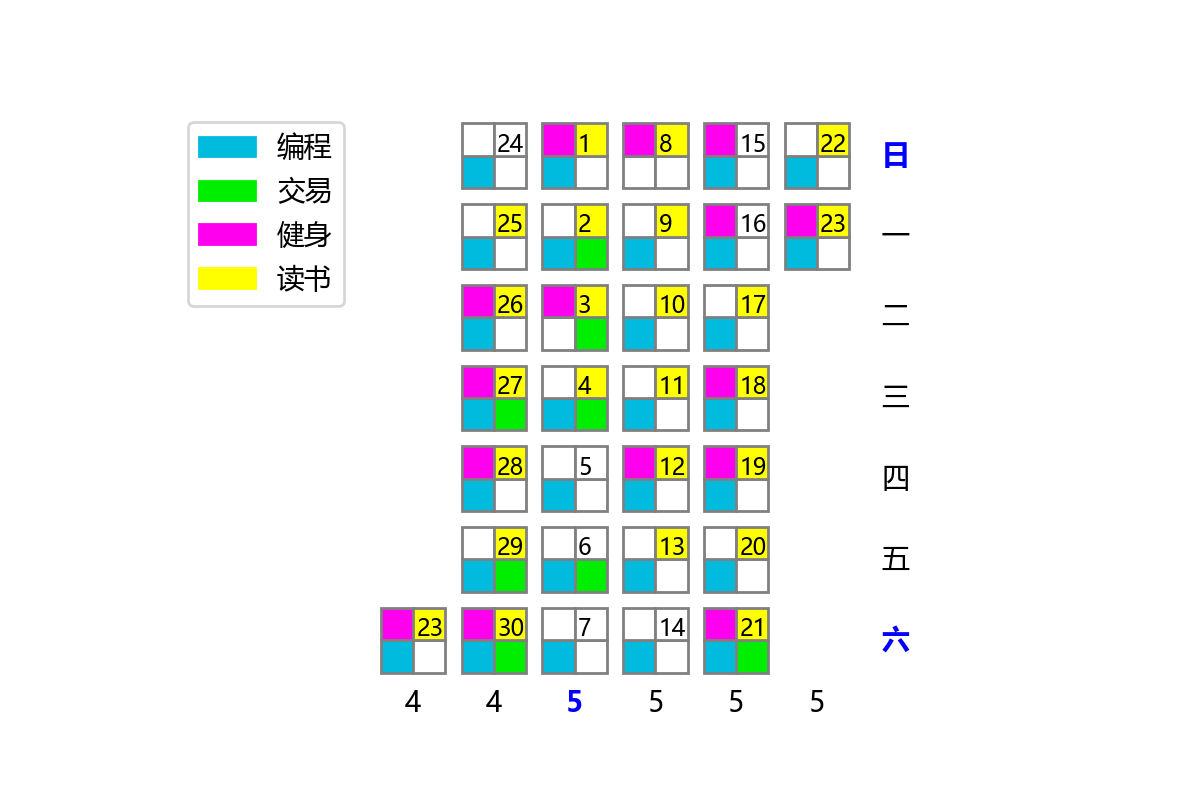
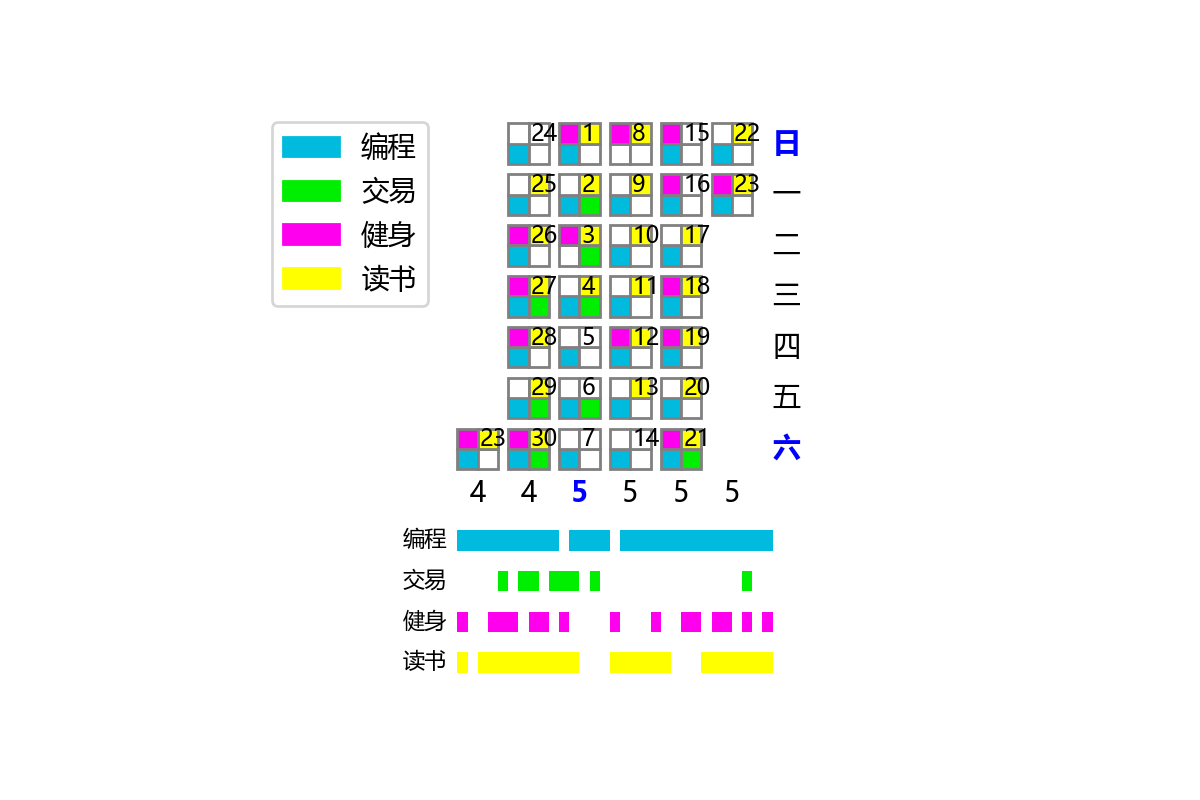
+ Add bar charts; > To fix fontsize issue

diff --git a/data_vis.py b/data_vis.py
@@ -46,7 +46,7 @@ class CalendarPlotter:
         self.rect_x_len = 1
         self.rect_y_len = self.rect_x_len / self.aspect
         self.rect_y_gap = 2.5
-        self.ax_bottom = self.rect_y_len * (-self.rect_y_gap) * 6
+        self.calendar_bottom = self.rect_y_len * (-self.rect_y_gap) * 6
         for ida, row in self.df.iterrows():
             rect_x, rect_y = self.plot_daily_rects(ida, row)
             self.plot_day_month_texts(
@@ -54,6 +54,7 @@ class CalendarPlotter:
             )
         self.plot_week_texts()
         self.plot_legends()
+        self.plot_bars()
 
         self.ax.plot()
         # plt.show()
@@ -75,7 +76,7 @@ class CalendarPlotter:
                 edgecolor="gray",
             )
             self.ax.add_patch(rect)
-        self.ax_right = rect_x + self.rect_x_len * 2
+        self.calendar_right = rect_x + self.rect_x_len * 2
         return rect_x, rect_y
 
     def plot_day_month_texts(self, date, rect_x, rect_y, is_last_day=False):
@@ -89,7 +90,7 @@ class CalendarPlotter:
         if date.isoweekday() == 6 or is_last_day:
             month_text_x = rect_x
             # month_text_y = rect_y - self.rect_y_len * 1.5
-            month_text_y = self.ax_bottom - self.rect_y_len * 0.5
+            month_text_y = self.calendar_bottom - self.rect_y_len * 0.5
             month_text_str = f"{date.month}"
             # month_text_str = date.strftime("%b")
             one_week_delta = datetime.timedelta(days=7)
@@ -111,7 +112,7 @@ class CalendarPlotter:
         for i in range(7):
             weekday_text_y = self.rect_y_len * (-self.rect_y_gap * i + 1)
             # weekday_text_x = self.rect_x_len * (-1.0)
-            weekday_text_x = self.ax_right
+            weekday_text_x = self.calendar_right
             weekday_text_str = self.weekday_zh_list[i]
             if i not in [0, 6]:
                 color, fontweight = "black", "normal"
@@ -134,6 +135,30 @@ class CalendarPlotter:
             patch = Patch(color=color, label=self.data_parser.action_en_zh_dict[action])
             handles.append(patch)
         plt.legend(handles=handles, bbox_to_anchor=(0.0, 0.98))
+
+    def plot_bars(self):
+        self.bar_width = self.calendar_right / self.df.shape[0]
+        self.bar_height = self.rect_y_len
+        for idb, (action, color) in enumerate(self.action_color_dict.items()):
+            bar_y = self.calendar_bottom - (4 + 2 * idb) * self.rect_y_len
+            for ida, row in self.df.iterrows():
+                bar_x = ida * self.bar_width
+                rect = Rectangle(
+                    (bar_x, bar_y),
+                    *(self.bar_width, self.bar_height),
+                    facecolor=color,
+                    edgecolor=None,
+                )
+                if row[action]:
+                    self.ax.add_patch(rect)
+            plt.text(
+                -self.bar_width,
+                bar_y + self.bar_height / 2,
+                self.data_parser.action_en_zh_dict[action],
+                va="center",
+                ha="right",
+                fontsize=8,
+            )
 
 
 calendar_plotter = CalendarPlotter()
